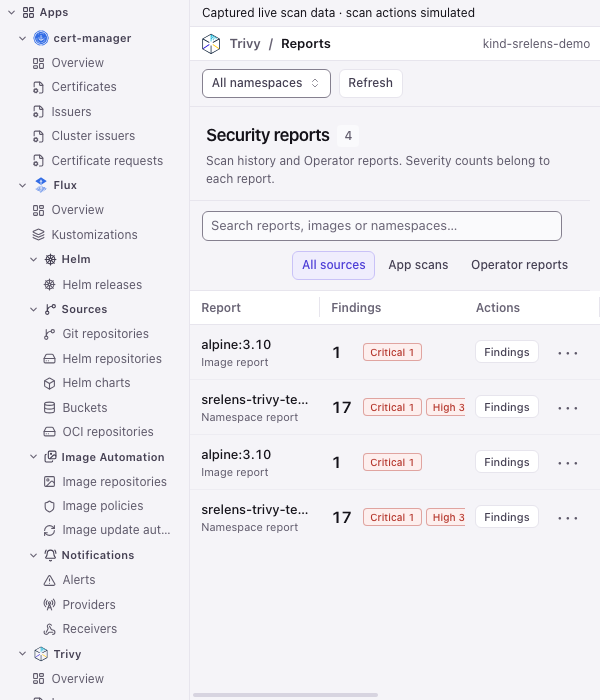
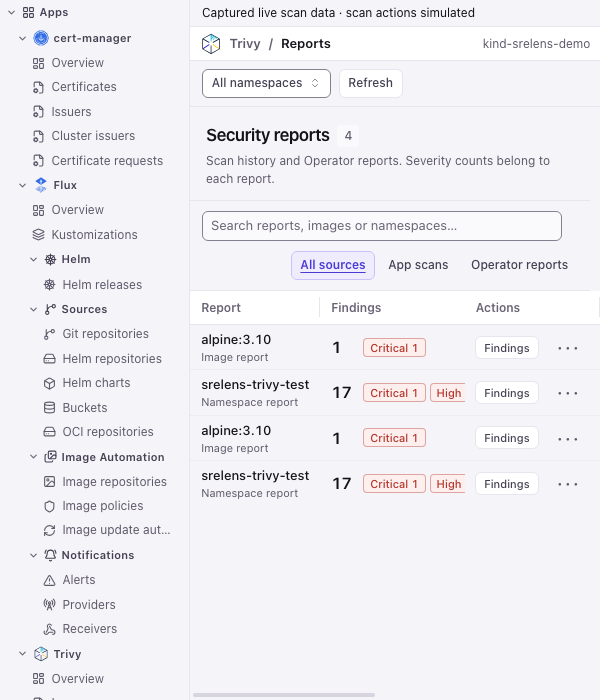
fix(ui): address executable app navigation and report reviews

diff --git a/packages/ui-next/src/screens/ExtensionOperation.tsx b/packages/ui-next/src/screens/ExtensionOperation.tsx
@@ -1,11 +1,12 @@
 import { useEffect, useRef, useState } from "react";
-import { callExtensionOperation, describeError, describeStreamEnd, extensionEnabledFor, extensionOperationRoute, openExtensionView, parseExtensionOperationRoute, relativeTime, type ExtensionOperation as Operation, type ExtensionView, type ExtensionStream } from "@srelens/core";
+import { listContexts, callExtensionOperation, describeError, describeStreamEnd, extensionEnabledFor, extensionOperationRoute, openExtensionView, parseExtensionOperationRoute, relativeTime, type ExtensionOperation as Operation, type ExtensionView, type ExtensionStream } from "@srelens/core";
 import { useNamespaceOptions } from "@srelens/core/react";
 import { ActionBar, Badge, Button, Combobox, Popover, Screen, Table, TextInput, type BadgeTone } from "@srelens/ui-kit";
 import { ExtensionLogo } from "../extensions/ExtensionLogo";
 import { useExtensions } from "../extensions/inventoryStore";
+import { ErrorNotice } from "../extensions/ExtensionResults";
 import { plainText } from "../extensions/displayText";
-import { useContexts, useContextsError, useContextsStatus } from "../lib/clusters";
+import { getContexts, getKubeconfigFiles, setContexts, useContexts, useContextsError, useContextsStatus } from "../lib/clusters";
 import type { RoutedScreenProps } from "../lib/routes";
 import { openTab } from "../lib/tabsStore";
 import { NamespaceChoice, NamespaceErrorAlert } from "./resourceShell";
@@ -41,8 +42,8 @@ function ReportActions({ data, operations, current, onOpen }: { data: Record<str
 }
 
 function ReportTable({ rows, operations, current, onOpen }: { rows: ResultRow[]; operations: Operation[]; current: string; onOpen: (operation: string, params: Record<string, Scalar>) => void }) {
- return <Table<ResultRow> data={rows} getRowKey={({data})=>String(data.reportId)} columns={[
-  {key:"subject",header:"Report",getValue:({data})=>data.subject,render:({data})=><div className="app-report-subject"><strong title={cell(data.subject)}>{cell(data.subject || "Unnamed report")}</strong><span title={cell(data.image || data.category)}>{label(String(data.category))} report{data.image && data.image !== data.subject ? <> · <span>{cell(data.image)}</span></> : null}</span></div>},
+ return <Table<ResultRow> data={rows} getRowKey={({data,index})=>typeof data.reportId === "string" ? data.reportId : `row-${index}`} columns={[
+  {key:"subject",header:"Report",getValue:({data})=>data.subject,render:({data})=><div className="app-report-subject"><strong tabIndex={0} title={cell(data.subject)}>{cell(data.subject || "Unnamed report")}</strong><span tabIndex={0} title={cell(data.image || data.category)}>{label(String(data.category))} report{data.image && data.image !== data.subject ? <> · <span>{cell(data.image)}</span></> : null}</span></div>},
   {key:"findings",header:"Findings",getValue:({data})=>data.findings,render:({data})=><div className="app-report-findings"><strong>{cell(data.findings)}</strong>{object(data.summary) && Object.values(data.summary).some(count=>typeof count==="number"&&count>0) ? <ResultValue field="summary" value={Object.fromEntries(Object.entries(data.summary).filter(([,count])=>typeof count==="number"&&count>0))}/> : <span className="text-muted">{data.findings===0 ? "No findings" : "Severity unavailable"}</span>}</div>},
   {key:"namespace",header:"Namespace",getValue:({data})=>data.namespace,render:({data})=><ResultValue field="namespace" value={data.namespace || "Cluster"}/>},
   {key:"source",header:"Source",getValue:({data})=>data.source,render:({data})=><div className="app-report-source"><span>{data.source==="app" ? "App scan" : data.source==="operator" ? "Operator" : cell(data.source)}</span><ResultValue field="freshness" value={data.freshness ?? "unknown"}/></div>},
@@ -52,8 +53,8 @@ function ReportTable({ rows, operations, current, onOpen }: { rows: ResultRow[];
 }
 
 function ResultValue({ field, value, compact = false }: { field: string; value: unknown; compact?: boolean }) {
-  if (field === "image" && typeof value === "string") return <span className="app-image-reference" title={cell(value)}>{cell(value)}</span>;
-  if (["name", "namespace", "container"].includes(field) && typeof value === "string") return <span className="app-resource-reference" title={cell(value)}>{cell(value)}</span>;
+  if (field === "image" && typeof value === "string") return <span tabIndex={0} className="app-image-reference" title={cell(value)}>{cell(value)}</span>;
+  if (["name", "namespace", "container"].includes(field) && typeof value === "string") return <span tabIndex={0} className="app-resource-reference" title={cell(value)}>{cell(value)}</span>;
   if (compact && Array.isArray(value)) return <div className="flex flex-wrap gap-1">{value.map((item, index) => <Badge key={index}>{cell(item)}</Badge>)}</div>;
   if (field === "summary" && object(value)) return <div className="flex flex-wrap gap-1">{Object.entries(value).sort(([a],[b])=>severityOrder(a)-severityOrder(b)).map(([name, count]) => <Badge key={name} tone={severityTone[severityName(name)] ?? "muted"}>{label((severityTone[severityName(name)] ? severityName(name) : name).toLowerCase())} {cell(count)}</Badge>)}</div>;
   if (["severity", "state", "freshness", "source"].includes(field) && typeof value === "string") {
@@ -84,7 +85,7 @@ function OperationResult({ value, operations, current, onOpen }: { value: unknow
   const [filter, setFilter] = useState("");
   const [source, setSource] = useState("");
   const fields = object(value) ? Object.entries(value) : [["Result", value] as const];
-  const reports = object(value) && !value.state && Array.isArray(value.items) && (typeof value.totalReports === "number" || value.items.some(reportRow));
+  const reports = object(value) && !value.state && Array.isArray(value.items) && value.items.every(reportRow) && (typeof value.totalReports === "number" || value.items.length > 0);
   const compactList = (key: string, value: unknown) => !["items", "findings", "bindings", "warnings"].includes(key) && Array.isArray(value) && value.length > 0 && value.length <= 8 && value.every(scalar);
   const metadata = fields.filter(([key, value]) => key !== "nextCursor" && (!Array.isArray(value) || compactList(key, value))).flatMap(([key, value]) => object(value) && key !== "summary" ? flatten(value) : [[key, value] as [string, unknown]]);
   const identity = metadata.filter(([key]) => technical(key) && key !== "scope");
@@ -120,7 +121,7 @@ function OperationResult({ value, operations, current, onOpen }: { value: unknow
 }
 
 function OperationForm({ id, revision, context, contextKey, operation, operations, initial = {} }: { id: string; revision: number; context: string; contextKey: string; operation: Operation; operations: Operation[]; initial?: Record<string, Scalar> }) {
-  const [values, setValues] = useState<Record<string, Scalar>>(initial);
+  const [values, setValues] = useState<Record<string, Scalar>>(() => ({ ...Object.fromEntries((operation.inputs ?? []).filter(input => input.type === "boolean").map(input => [input.name, false])), ...initial }));
   const [result, setResult] = useState<unknown>();
   const [error, setError] = useState("");
   const [busy, setBusy] = useState(false);
@@ -206,6 +207,10 @@ export function ExtensionOperation({ route }: RoutedScreenProps) {
   const contexts = useContexts();
   const status = useContextsStatus();
   const contextError = useContextsError();
+  const retryContexts = async () => {
+    try { const result = await listContexts(getKubeconfigFiles()); setContexts([...(result.contexts ?? getContexts())], result.error ?? ""); }
+    catch (error) { setContexts(getContexts(), describeError(error).detail); }
+  };
   if (!target) return null;
   const app = inventory.data?.plugins.find((app) => app.manifest.id === target.id);
   const cluster = contexts.find((context) => context.key === target.contextKey);
@@ -220,6 +225,8 @@ export function ExtensionOperation({ route }: RoutedScreenProps) {
   return <Screen title={<span className="flex min-w-0 items-center gap-2"><ExtensionLogo icon={app?.icon} name={app?.manifest.name ?? target.id} size={22} /><span className="text-muted">{app?.manifest.name ?? target.id}</span><span className="text-faint">/</span><span>{operation?.title ?? "App"}</span></span>} actions={<span className="block max-w-56 truncate text-xs text-muted" title={cluster?.name ?? target.contextKey}>{cluster?.name ?? target.contextKey}</span>} fill>
     <div className="flex min-h-0 min-w-0 flex-1 flex-col overflow-hidden">
       {inventory.status === "loading" || status === "loading" ? <p className="extension-message" role="status">Loading app…</p>
+        : inventory.status === "error" ? <ErrorNotice title="Could not load apps" message={inventory.error} retry={inventory.reload} />
+        : !cluster && status === "failed" ? <ErrorNotice title="Could not load clusters" message={contextError} retry={() => { void retryContexts(); }} />
         : error ? <p className="extension-message" role="alert">{error}</p>
         : <OperationForm key={route} id={target.id} revision={target.revision} contextKey={target.contextKey} context={cluster!.pinnedId!} operation={operation!} operations={app!.manifest.sidecar!.operations} initial={target.params} />}
     </div>

diff --git a/packages/ui-next/src/screens/ExtensionOperation.test.tsx b/packages/ui-next/src/screens/ExtensionOperation.test.tsx
@@ -1,10 +1,11 @@
 import { fireEvent, render, screen, waitFor, within } from "@testing-library/react";
 import { beforeEach, expect, it, vi } from "vitest";
 const host = vi.hoisted(() => ({ calls: [] as any[], answer: {} as unknown, error: "", pending: undefined as Promise<unknown> | undefined }));
-const appState = vi.hoisted(() => ({ revision: 3, enabled: true, autoRun: false, stream: false, namespace: false }));
+const appState = vi.hoisted(() => ({ revision: 3, enabled: true, autoRun: false, stream: false, namespace: false, boolean: false, inventoryError: false, contextError: false, reloads: 0, refreshes: 0 }));
 const streamState = vi.hoisted(() => ({ handlers: undefined as any, request: undefined as any, closed: 0, cancelled: 0, pending: undefined as Promise<any> | undefined }));
 vi.mock("@srelens/core", async (original) => ({
   ...(await original<typeof import("@srelens/core")>()),
+  listContexts: async () => { appState.refreshes++; return {contexts:[]}; },
   openExtensionView: () => ({ close: async () => { streamState.closed++; }, open: async (request: unknown, handlers: unknown) => { streamState.request = request; streamState.handlers = handlers; if (streamState.pending) return await streamState.pending; return { cancel: async () => { streamState.cancelled++; streamState.handlers.onEnd({ type: "close", reason: "cancelled" }); } }; } }),
 }));
 vi.mock("@srelens/core/transport", async (original) => ({
@@ -18,13 +19,13 @@ vi.mock("@srelens/core/transport", async (original) => ({
 }));
 vi.mock("@srelens/core/react", () => ({ useNamespaceOptions: () => ({ namespaces: ["team", "default"], scope: null, error: "" }) }));
 vi.mock("../lib/clusters", () => ({
-  useContexts: () => [{ name: "demo", stableId: "same-id", key: "config#demo", pinnedId: "srelens-context:config#demo" }],
-  useContextsStatus: () => "loaded", useContextsError: () => "",
+  useContexts: () => appState.contextError ? [] : [{ name: "demo", stableId: "same-id", key: "config#demo", pinnedId: "srelens-context:config#demo" }],
+  useContextsStatus: () => appState.contextError ? "failed" : "loaded", useContextsError: () => "Kubeconfig read denied", getContexts: () => [], getKubeconfigFiles: () => [], setContexts: () => { appState.contextError = false; },
 }));
 vi.mock("../extensions/inventoryStore", () => ({
-  useExtensions: () => ({ status: "ready", data: { plugins: [{ ...appState,
+  useExtensions: () => ({ status: appState.inventoryError ? "error" : "ready", error: "Inventory read denied", reload: () => { appState.reloads++; appState.inventoryError = false; }, data: { plugins: [{ ...appState,
     manifest: { id: "org.srelens.trivy", name: "Trivy", sidecar: { operations: [{ name: "scan", title: "Scan image", view: { autoRun: appState.autoRun, stream: appState.stream }, inputs: [
-      { name: "clusterId", type: "string", required: true }, ...(appState.namespace ? [{ name: "namespace", title: "Namespace", type: "string", required: true }] : []), { name: "image", title: "Image", type: "string", required: true, maxLength: 512 },
+      { name: "clusterId", type: "string", required: true }, ...(appState.namespace ? [{ name: "namespace", title: "Namespace", type: "string", required: true }] : []), { name: "image", title: "Image", type: "string", required: true, maxLength: 512 }, ...(appState.boolean ? [{name:"includeFixed",title:"Include fixed",type:"boolean",required:true}] : []),
     ] }, { name: "findings", title: "Findings", view: { autoRun: true, hidden: true }, inputs: [{ name: "clusterId", type: "string", required: true }, { name: "reportId", type: "string", required: true }, { name: "cursor", type: "string" }] }, {name:"scan-namespace",title:"Scan namespace",view:{stream:true},inputs:[{name:"clusterId",type:"string",required:true},{name:"namespace",type:"string",required:true}]}, {name:"list-images",title:"Images",view:{autoRun:true},inputs:[{name:"clusterId",type:"string",required:true},{name:"namespace",type:"string"},{name:"cursor",type:"string"}]}] } },
   }] } }),
 }));
@@ -38,7 +39,7 @@ const route = "/extension-operation-contexts/config%23demo/org.srelens.trivy/3/s
 const open = () => render(<ExtensionOperation route={route} ported={[]} onSwitchToClassic={() => {}} onLocked={() => {}} />);
 beforeEach(() => { host.calls = []; host.error = ""; host.pending = undefined; host.answer = { state: "completed", source: "app", findings: [
   { id: "CVE-2019-1549", severity: "HIGH", package: "libssl1.1", installedVersion: "1.1.1b-r1", fixedVersion: "1.1.1d-r0" },
-] }; appState.revision = 3; appState.enabled = true; appState.autoRun = false; appState.stream = false; appState.namespace = false; streamState.request = undefined; streamState.pending = undefined; streamState.closed = 0; streamState.cancelled = 0; });
+] }; appState.revision = 3; appState.enabled = true; appState.autoRun = false; appState.stream = false; appState.namespace = false; appState.boolean = false; appState.inventoryError = false; appState.contextError = false; appState.reloads = 0; appState.refreshes = 0; streamState.request = undefined; streamState.pending = undefined; streamState.closed = 0; streamState.cancelled = 0; });
 
 it("registers a native screen and renders the declared operation's real result", async () => {
   expect(screenFor(route)).toBe(ExtensionOperation);
@@ -318,4 +319,46 @@ it("distinguishes Operator resources sharing an image and renders Operator sever
   expect(within(row).getByText("Low 1")).toBeTruthy();
   expect(within(row).getByText("Unknown 1")).toBeTruthy();
  }
+});
+
+it("submits a required boolean's visible unchecked choice on the first run", async () => {
+  appState.boolean = true;
+  open();
+  expect((await screen.findByLabelText("Include fixed") as HTMLInputElement).checked).toBe(false);
+  fireEvent.change(screen.getByLabelText("Image"), {target:{value:"alpine:3.9"}});
+  fireEvent.click(screen.getByRole("button", {name:"Scan image"}));
+  await screen.findByText("CVE-2019-1549");
+  expect(host.calls[0].params.includeFixed).toBe(false);
+});
+
+it("preserves a route-provided true boolean when initializing the form", async () => {
+  appState.boolean = true;
+  render(<ExtensionOperation route={route + "/" + encodeURIComponent(JSON.stringify({image:"alpine:3.9",includeFixed:true}))} ported={[]} onSwitchToClassic={() => {}} onLocked={() => {}} />);
+  fireEvent.click(await screen.findByRole("button", {name:"Scan image"}));
+  await screen.findByText("CVE-2019-1549");
+  expect(host.calls[0].params.includeFixed).toBe(true);
+});
+
+it("renders malformed report collections as generic results with independent row identity", async () => {
+  host.answer = {totalReports:2,items:[{image:"alpine:a"},{image:"alpine:b"}]};
+  open(); fireEvent.change(await screen.findByLabelText("Image"),{target:{value:"alpine:3.9"}});
+  fireEvent.click(screen.getByRole("button",{name:"Scan image"}));
+  await screen.findByText("alpine:a");
+  expect(screen.getByRole("table").textContent).toContain("alpine:b");
+  expect(screen.getByRole("columnheader",{name:/Image/})).toBeTruthy();
+  expect(screen.queryByText("Undefined report")).toBeNull();
+});
+
+it("offers retry for failed inventory and context loads", async () => {
+  appState.inventoryError = true;
+  let mounted = open();
+  expect((await screen.findByRole("alert")).textContent).toContain("Inventory read denied");
+  fireEvent.click(screen.getByRole("button",{name:"Retry"}));
+  expect(appState.reloads).toBe(1);
+  mounted.unmount();
+  appState.contextError = true;
+  mounted = open();
+  expect((await screen.findByRole("alert")).textContent).toContain("Kubeconfig read denied");
+  fireEvent.click(screen.getByRole("button",{name:"Retry"}));
+  expect(appState.refreshes).toBe(1);
 });

diff --git a/packages/ui-next/src/styles/next.css b/packages/ui-next/src/styles/next.css
@@ -12,8 +12,7 @@
 
 /* App result panes keep dense report evidence readable without stretching rows. */
 .app-results .tbl thead th { text-transform: none; letter-spacing: 0; font-size: 12px; padding-block: 9px; }
-.app-results .tbl td { height: 52px; padding-block: 8px; }
-.app-image-reference, .app-resource-reference { display: block; max-width: 340px; overflow: hidden; white-space: nowrap; text-overflow: ellipsis; }
+.app-image-reference, .app-resource-reference { display: block; max-width: 340px; overflow-x: auto; white-space: nowrap; }
 .app-resource-reference { max-width: 220px; }
 .app-results .app-row-actions { flex-wrap: nowrap; }
 .app-results .badge { text-transform: none; letter-spacing: 0; font-family: var(--font-sans); padding: 2px 6px; border-radius: 4px; }
@@ -24,15 +23,15 @@
 .app-result-filters { display: flex; align-items: center; flex-wrap: wrap; gap: 10px; padding: 10px 12px; border-bottom: 1px solid var(--rule); }
 .app-result-filters > :first-child { max-width: 360px; flex: 1 1 240px; }
 .app-source-filters { display: flex; gap: 3px; margin-left: auto; }
-.app-source-filters button[aria-pressed="true"] { background: var(--accent-wash); color: var(--accent); border-color: var(--accent-line); }
+.app-source-filters button[aria-pressed="true"] { font-weight: 600; text-decoration: underline; text-underline-offset: 3px; background: var(--accent-wash); color: var(--accent); border-color: var(--accent-line); }
 .app-report-subject, .app-report-time, .app-report-source { display: flex; flex-direction: column; gap: 3px; }
-.app-report-subject strong { max-width: 260px; overflow: hidden; text-overflow: ellipsis; font-weight: 500; }
-.app-report-subject > span { max-width: 260px; overflow: hidden; white-space: nowrap; text-overflow: ellipsis; }
+.app-report-subject strong { max-width: 260px; overflow-x: auto; white-space: nowrap; font-weight: 500; }
+.app-report-subject > span { max-width: 260px; overflow-x: auto; white-space: nowrap; }
 .app-report-subject > span, .app-report-time > span:last-child { font-size: 11px; color: var(--ink-muted); }
 .app-report-source .badge { align-self: flex-start; }
 .app-report-findings { display: flex; align-items: center; gap: 10px; }
 .app-report-findings > strong { min-width: 22px; font-size: 16px; font-weight: 600; }
-.app-report-findings .badge { font-size: 10px; }
+.app-report-findings .badge { font-size: 11px; }
 .app-report-findings > div { flex-wrap: nowrap; }
 .app-report-actions { display: flex; align-items: center; justify-content: flex-end; gap: 10px; }
 .app-report-actions .btn { font-size: 11px; padding: 4px 8px; }

diff --git a/packages/ui-next/src/lib/routes.ts b/packages/ui-next/src/lib/routes.ts
@@ -121,7 +121,11 @@ function decodedSegment(raw: string): string {
  */
 export function describe(route: string, clusterName?: string): RouteInfo {
   const operation = parseExtensionOperationRoute(route);
-  if (operation) return { route, title: operation.operation, sub: clusterName ?? operation.contextKey, kind: "resource" };
+  if (operation) {
+    const title = operation.operation.replace(/[-_]/g, " ").replace(/^./, c => c.toUpperCase());
+    const subject = operation.params?.reportId ?? operation.params?.image ?? operation.params?.namespace;
+    return { route, title: subject ? `${title} · ${subject}` : title, sub: clusterName ?? operation.contextKey, kind: "resource" };
+  }
   const extension = parseExtensionRoute(route);
   // A route that names its cluster by key or stable ID is labelled with the cluster's name;
   // a legacy one already carries the name.

diff --git a/packages/ui-next/src/extensions/appNavigation.ts b/packages/ui-next/src/extensions/appNavigation.ts
@@ -14,7 +14,7 @@ import { extensionLogoIcon, extensionPageIcon } from "./ExtensionLogo";
  * the budget test (#581) times exactly what the sidebar builds.
  */
 export function appNavigation(plugins: InstalledExtension[], contextKey: string): ResourceNode | null {
-  const apps = plugins.filter((p) => p.enabled && extensionEnabledFor(p, contextKey) && (p.manifest.contributions.pages.length || p.manifest.sidecar?.operations.length));
+  const apps = plugins.filter((p) => p.enabled && extensionEnabledFor(p, contextKey) && (p.manifest.contributions.pages.length || p.manifest.sidecar?.operations.some(operation => !operation.view?.hidden)));
   if (!apps.length) return null;
   return {
     id: "extensions", label: "Apps", icon: Icons.apps,

diff --git a/packages/ui-next/src/lib/routes.test.ts b/packages/ui-next/src/lib/routes.test.ts
@@ -485,3 +485,8 @@ it("describes resource identity for tab hints without guessing a namespace", asy
   expect(tabDetail("/logs/Pod/default/app")).toBe("Pod · default");
   expect(tabDetail("/overview")).toBeUndefined();
 });
+
+it("distinguishes operation tabs by their report or image subject", () => {
+  expect(describe("/extension-operation-contexts/config%23demo/org.srelens.trivy/3/findings/" + encodeURIComponent(JSON.stringify({reportId:"report-a"}))).title).toBe("Findings · report-a");
+  expect(describe("/extension-operation-contexts/config%23demo/org.srelens.trivy/3/findings/" + encodeURIComponent(JSON.stringify({reportId:"report-b"}))).title).toBe("Findings · report-b");
+});

diff --git a/packages/ui-next/src/extensions/appNavigation.test.ts b/packages/ui-next/src/extensions/appNavigation.test.ts
@@ -22,3 +22,10 @@ it("opens executable operations on the cluster and installed revision they belon
   expect(appNavigation([{ ...app, enabled: false }], "config#a/b")).toBeNull();
   expect(appNavigation([{ ...app, contexts: ["other"] }], "config#a/b")).toBeNull();
 });
+
+it("omits an app whose only operations are hidden", () => {
+  const hidden = structuredClone(app);
+  hidden.manifest.contributions.pages = [];
+  hidden.manifest.sidecar!.operations = [{name:"findings",title:"Findings",view:{hidden:true}}];
+  expect(appNavigation([hidden], "config#demo")).toBeNull();
+});
